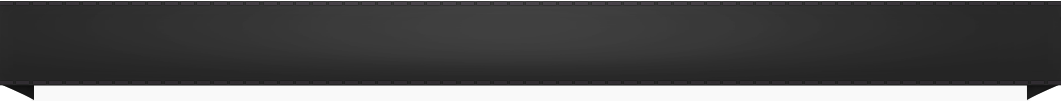
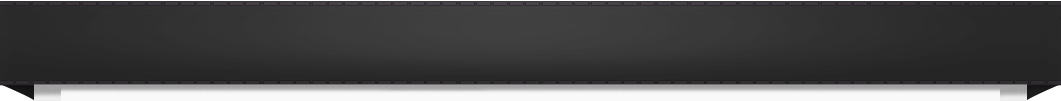
upload

Changed region(s): [[0.0311, 0.8317, 0.9953, 0.9505]]

diff --git a/index.html b/index.html
@@ -53,7 +53,7 @@
     
     <div class="small-6 large-3 columns spectrafy-cta">
     	<img class="spec_logo"src="images/spectrafy_logo.png" />
-    	<h5>Finding colors has never been easier, better looking and simpler.</h5>
+    	<h5>Finding colors has never been easier, faster and simpler.</h5>
 	    <a href="#"><img src="images/button.png" /> </a>
     </div>
     
@@ -84,29 +84,29 @@
   
   
   <!-- Three-up Content Blocks -->
-  
+  <div class="section1">
   <div class="row">
   
     <div class="four columns">
-      <img src="http://placehold.it/400x300&text=[img]" />
-      <h4>This is a content section.</h4>
-      <p>Bacon ipsum dolor sit amet nulla ham qui sint exercitation eiusmod commodo, chuck duis velit. Aute in reprehenderit, dolore aliqua non est magna in labore pig pork biltong. Eiusmod swine spare ribs reprehenderit culpa. Boudin aliqua adipisicing rump corned beef.</p>
+      <img src="images/colors.png" />
+      <h4>What is Spectrafy?</h4>
+      <p>Spectrafy is a desktop Adobe Air Application, that allows users to find a large range of color palettes used for finding color inspiration. The color themes found in Spectrafy are suitable for any modern and classic designer.</p>
     </div>
     
     <div class="four columns">
-      <img src="http://placehold.it/400x300&text=[img]" />
+      <img src="images/colors.png" />
       <h4>This is a content section.</h4>
-      <p>Bacon ipsum dolor sit amet nulla ham qui sint exercitation eiusmod commodo, chuck duis velit. Aute in reprehenderit, dolore aliqua non est magna in labore pig pork biltong. Eiusmod swine spare ribs reprehenderit culpa. Boudin aliqua adipisicing rump corned beef.</p>
+      <p>Spectrafy is a desktop Adobe Air Application, that allows users to find a large range of color palettes used for finding color inspiration. The color themes found in Spectrafy are suitable for any modern and classic designer.</p>
     </div>
     
     <div class="four columns">
-      <img src="http://placehold.it/400x300&text=[img]" />
+      <img src="images/colors.png" />
       <h4>This is a content section.</h4>
-      <p>Bacon ipsum dolor sit amet nulla ham qui sint exercitation eiusmod commodo, chuck duis velit. Aute in reprehenderit, dolore aliqua non est magna in labore pig pork biltong. Eiusmod swine spare ribs reprehenderit culpa. Boudin aliqua adipisicing rump corned beef.</p>
+      <p>Spectrafy is a desktop Adobe Air Application, that allows users to find a large range of color palettes used for finding color inspiration. The color themes found in Spectrafy are suitable for any modern and classic designer.</p>
     </div>
     
   </div>
-  
+  </div>
   
   
   
@@ -114,7 +114,6 @@
   <div id="footer">
   <footer class="row">
     <div class="twelve columns">
-      <hr />
       <div class="row">
         <div class="six columns">
           <p>&copy; Copyright 2013. <a href="http://enoklabs.com">EnokLabs.com</a></p>

diff --git a/stylesheets/style.css b/stylesheets/style.css
@@ -25,10 +25,12 @@ a:hover{
 	background-repeat: repeat;
 }
 
+
 #footer{
 	height: 100%;
 	width: 100%;
-	background: #eee;
+	background: #222;
+	color: #ccc;
 }
 .button{
 	background: #8DC63F;
@@ -90,4 +92,12 @@ a:hover{
 	padding: 0;
 	margin-top: 50px;
 }
+.section1{
+	background: #eee;
+	height: 100%;
+	width: 100%;
+}
+.section1 .row{
+	background: #F9F9F9;
 
+}
